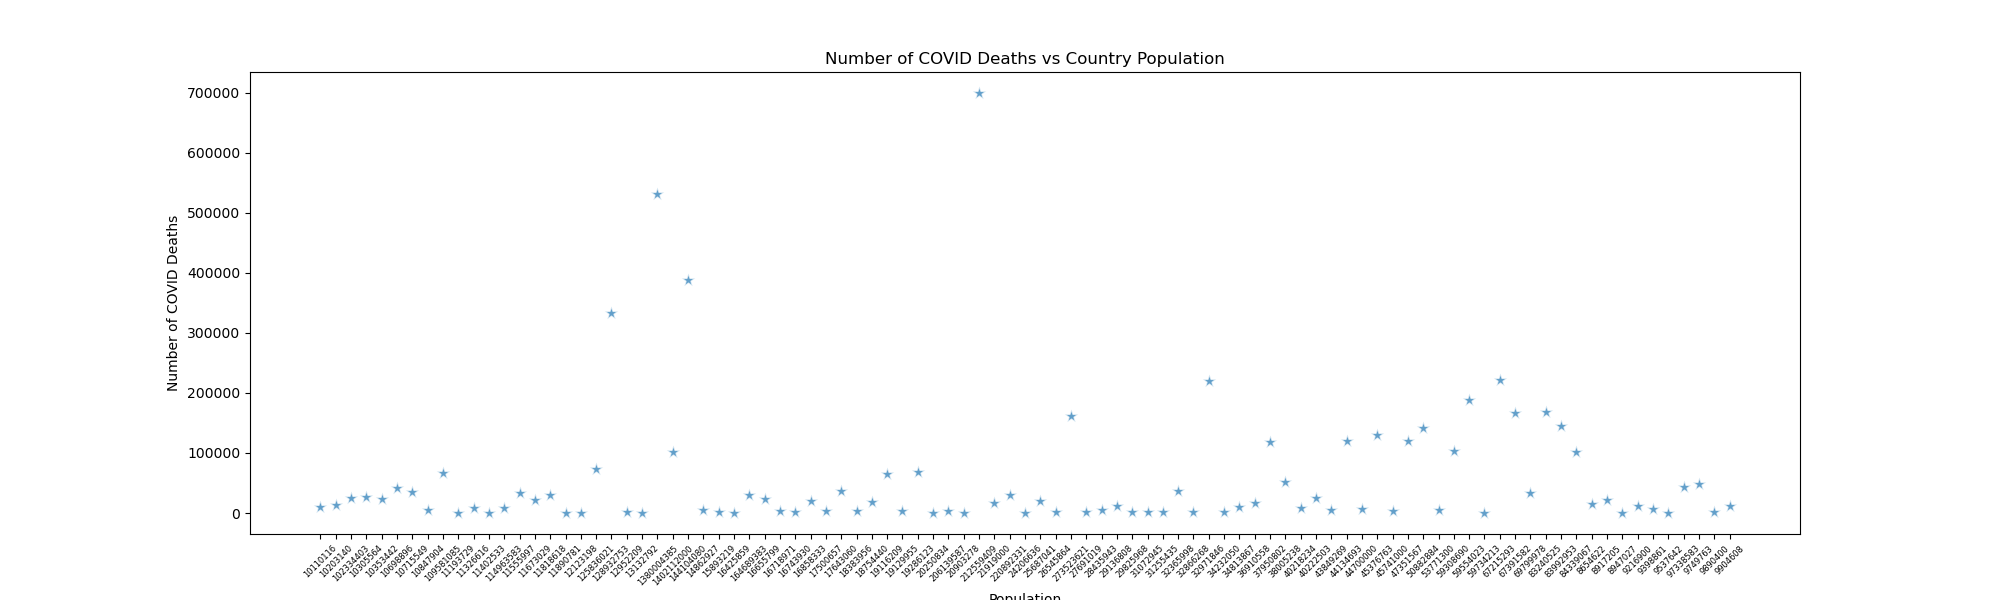
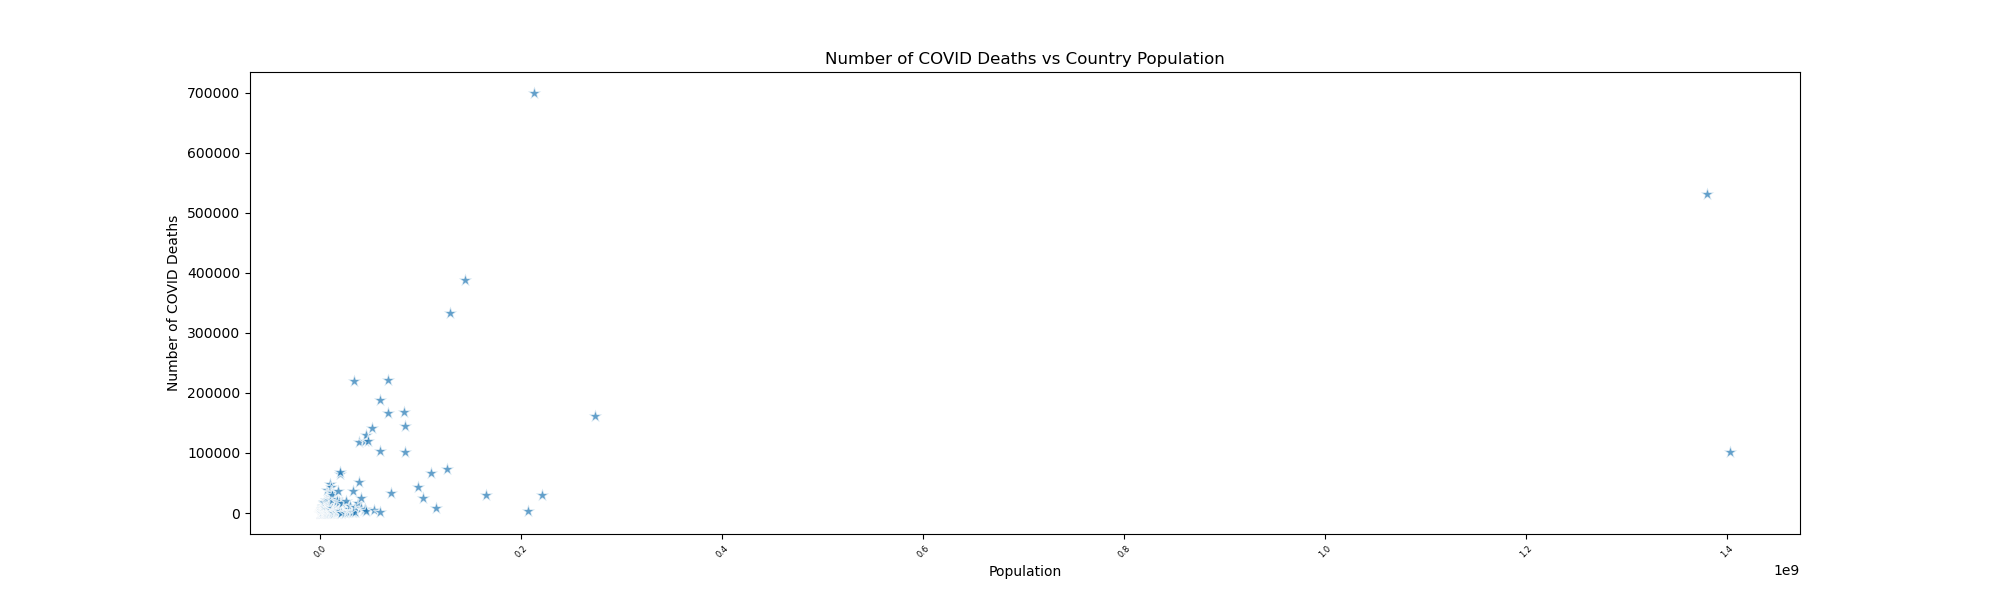
fix

diff --git a/combine_tables.py b/combine_tables.py
@@ -8,7 +8,7 @@ cursor.execute('''
 CREATE TABLE IF NOT EXISTS country_and_population (
                 id INTEGER PRIMARY KEY,
                 country TEXT NOT NULL,
-                population TEXT NOT NULL
+                population INTEGER NOT NULL
             )
         ''')
 cursor.execute('''
